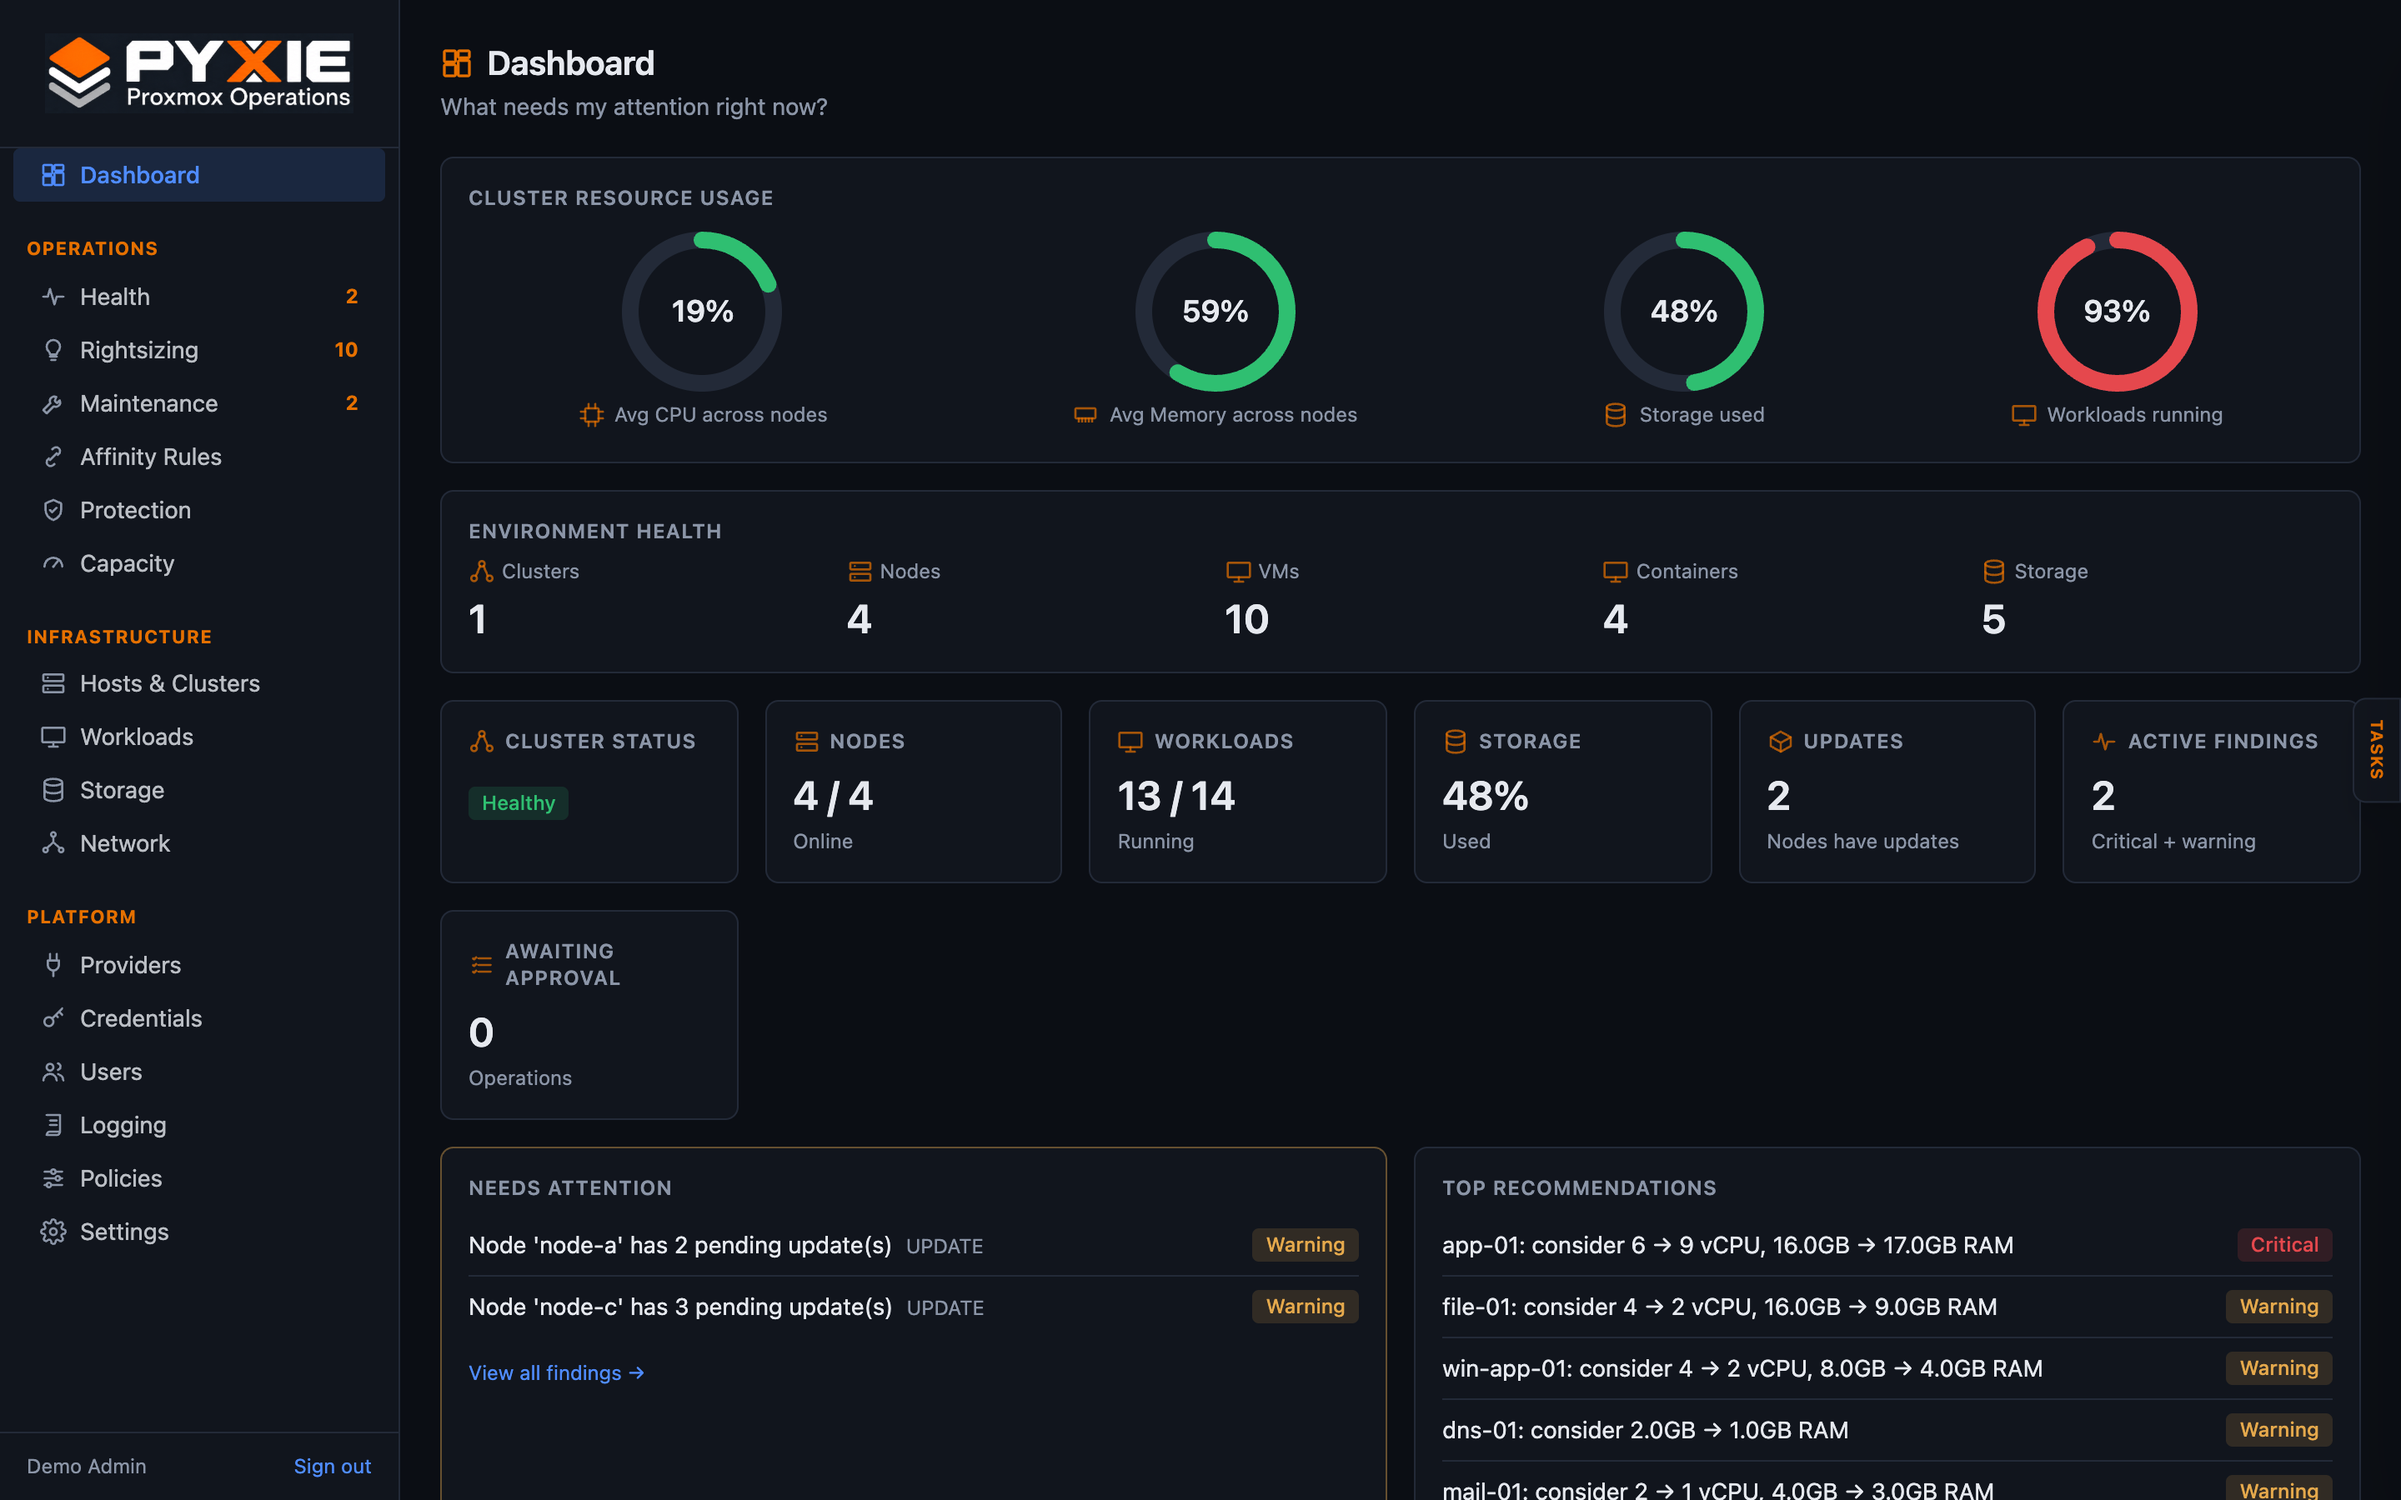
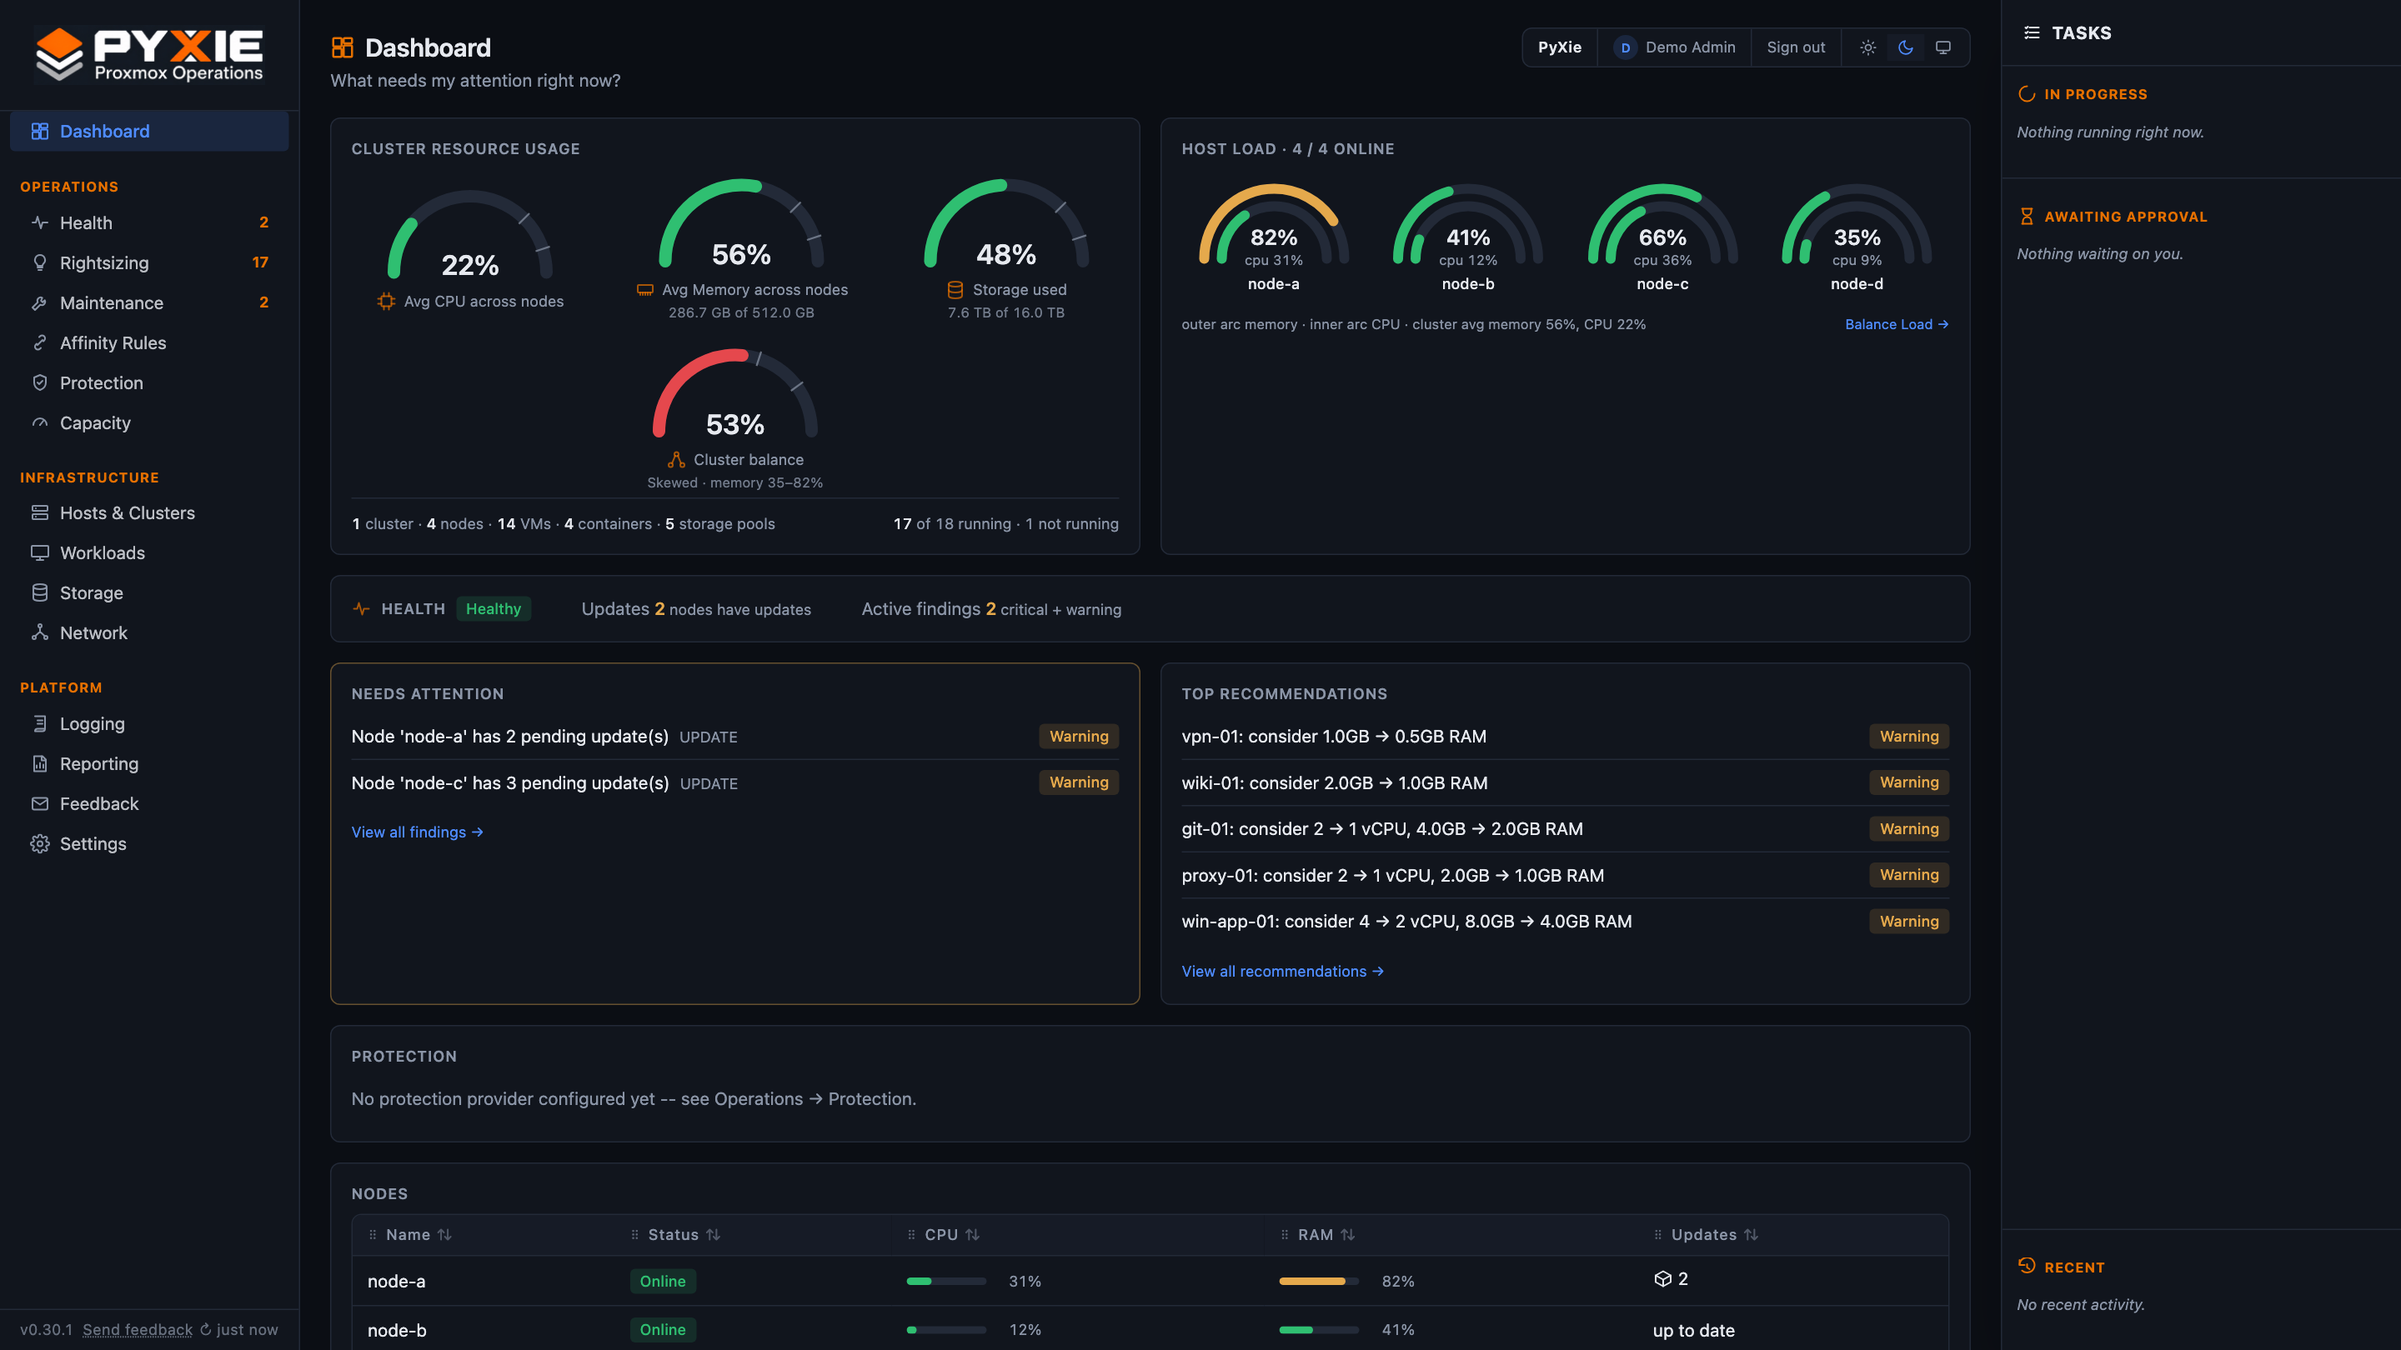
docs: replace mockups with real app screenshots (fictional demo data) (#126)

diff --git a/README.md b/README.md
@@ -33,38 +33,27 @@ The older native systemd install (no Docker) is still supported but is the legac
 
 ## Screenshots
 
-Illustrative mockups; the data shown is fictional.
+Captured from the running app against a fictional demo dataset (no real hostnames, VM names or accounts).
 
-**Dashboard** -- cluster resource usage, environment health, and what needs attention right now:
-
-![Dashboard](docs/screenshots/mockup-dashboard.png)
-
-**Rightsizing** -- evidence-backed sizing suggestions, triaged with acknowledge and dismiss:
-
-![Rightsizing](docs/screenshots/mockup-rightsizing.png)
-
-**Maintenance** -- node evacuation, host updates and reboots, every action previewed and approved before it runs:
-
-![Maintenance](docs/screenshots/mockup-maintenance.png)
-
-**Balance Load** -- a rebalance preview: memory by node before and after, every move checked one at a time, and blocked moves explained:
-
-![Balance Load](docs/screenshots/mockup-balance-load.png)
-
-**Affinity Rules** -- keep-together and keep-apart rules, enforced on migrations, evacuations and rebalancing:
-
-![Affinity Rules](docs/screenshots/mockup-affinity-rules.png)
-
-<details>
-<summary>Screenshots of the running app (demo data)</summary>
+**Dashboard** -- cluster resource usage, host load, and what needs attention right now:
 
 ![Dashboard](docs/screenshots/dashboard.png)
 
+**Cluster balance** -- the balance gauge and per-node host load (outer arc memory, inner arc CPU), with a link into Balance Load:
+
+![Cluster balance](docs/screenshots/balance.png)
+
+**Rightsizing** -- per-workload observation status with evidence-backed sizing suggestions:
+
 ![Rightsizing](docs/screenshots/rightsizing.png)
+
+**Maintenance** -- node evacuation, guest lifecycle, host updates, Balance Load and full maintenance runs, every action previewed before approval:
 
 ![Maintenance](docs/screenshots/maintenance.png)
 
-</details>
+**Affinity Rules** -- keep-together and keep-apart placement rules, enforced on migrations, evacuations and rebalancing:
+
+![Affinity Rules](docs/screenshots/affinity-rules.png)
 
 ## Versioning
 
